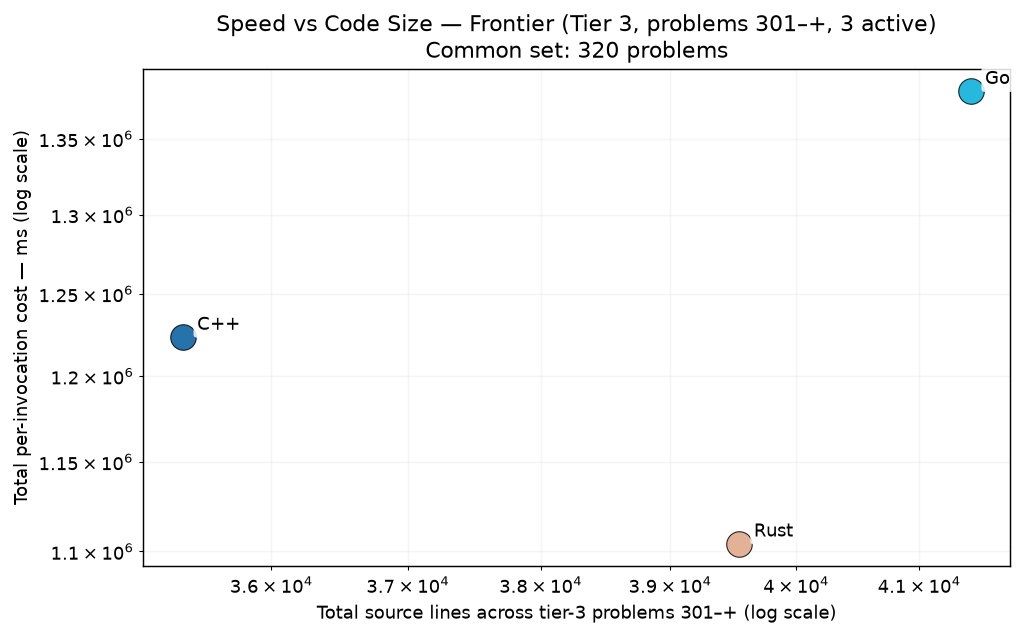
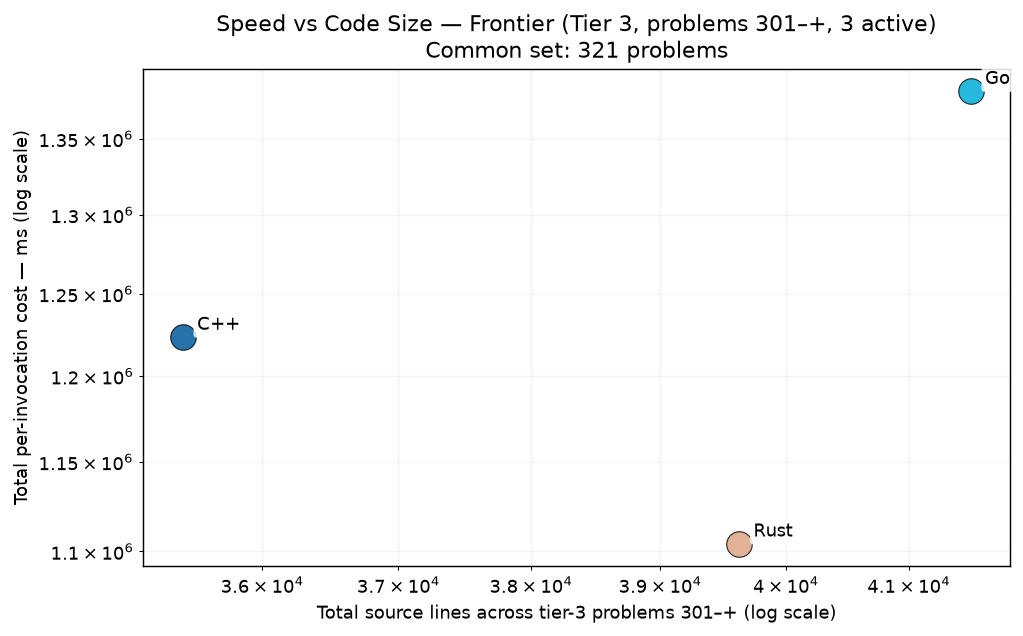
p1005 solved (cpp/go/rust): Median Prime List; frontier common set + grid reach 1005

diff --git a/RESULTS.md b/RESULTS.md
@@ -1,6 +1,6 @@
 # Project Euler — Cross-Language Benchmarks
 
-> **Scope: 4615 in-scope cells across 1005 problems × tiered languages — 3578 measured (77.5% coverage).**
+> **Scope: 4615 in-scope cells across 1005 problems × tiered languages — 3581 measured (77.6% coverage).**
 > The cross-language ranking below is computed over the **200-problem common set** (problems in 1-200 where every language has a passing measurement) — the apples-to-apples Foundation comparison surface.  Per-tier rankings and coverage detail appear further below.
 > Growing carefully — each new problem and language is audited for state-leak
 > safety, verified for answer correctness, and added only when it cleanly fits the
@@ -71,15 +71,15 @@ Same scatter as the Foundation chart, restricted to the tier-2 active languages 
 
 The frontier verification trio — C++, Go, Rust — on problems above 300. 3-way cross-language agreement is the verification protocol (strictly stronger than 2-way; see JOURNEY.md "Tier Reframing" episode for the p254 lesson that motivated it). Python and Zig are explicitly out of this tier — python's wall cost makes it impractical at level 5+, and zig's role caps at Tier 2.
 
-### Per-Invocation Cost (Common Set, 320 of ≤705 problems in scope)
+### Per-Invocation Cost (Common Set, 321 of ≤705 problems in scope)
 
 ![Per-Invocation Cost — Tier 3](charts/per_iter_total_tier3.png)
 
-| Rank | Language | Geomean (320-problem common set) | Total (sum) | Lines of code | vs Fastest |
+| Rank | Language | Geomean (321-problem common set) | Total (sum) | Lines of code | vs Fastest |
 |------|----------|--------------------:|------------:|--------------:|-----------:|
-| 1 | **Rust** | 52.98 ms | 1104.17 s | 39,547 | 1.00× |
-| 2 | **C++** | 59.59 ms | 1223.46 s | 35,365 | 1.12× |
-| 3 | **Go** | 71.84 ms | 1382.20 s | 41,425 | 1.36× |
+| 1 | **Rust** | 52.46 ms | 1104.17 s | 39,624 | 1.00× |
+| 2 | **C++** | 58.88 ms | 1223.46 s | 35,429 | 1.12× |
+| 3 | **Go** | 71.08 ms | 1382.20 s | 41,513 | 1.35× |
 
 ### Speed vs Code Size
 

diff --git a/per_problem/per_problem_1001-1005.md b/per_problem/per_problem_1001-1005.md
@@ -12,6 +12,8 @@ in tier-1 display order (native → managed → interpreted).
 | **p1002** | — | — | — |
 | **p1003** | — | — | — |
 | **p1004** | — | — | — |
-| **p1005** | — | — | — |
+| **p1005** | 1.27 ms† | 2.28 ms† | 2.45 ms† |
+
+> † — *no corroboration*: no two samples agreed within 5%; median recorded, environment flagged for re-bench (METHODOLOGY.md §3).
 
 ⬅ [Back to RESULTS](../RESULTS.md)
